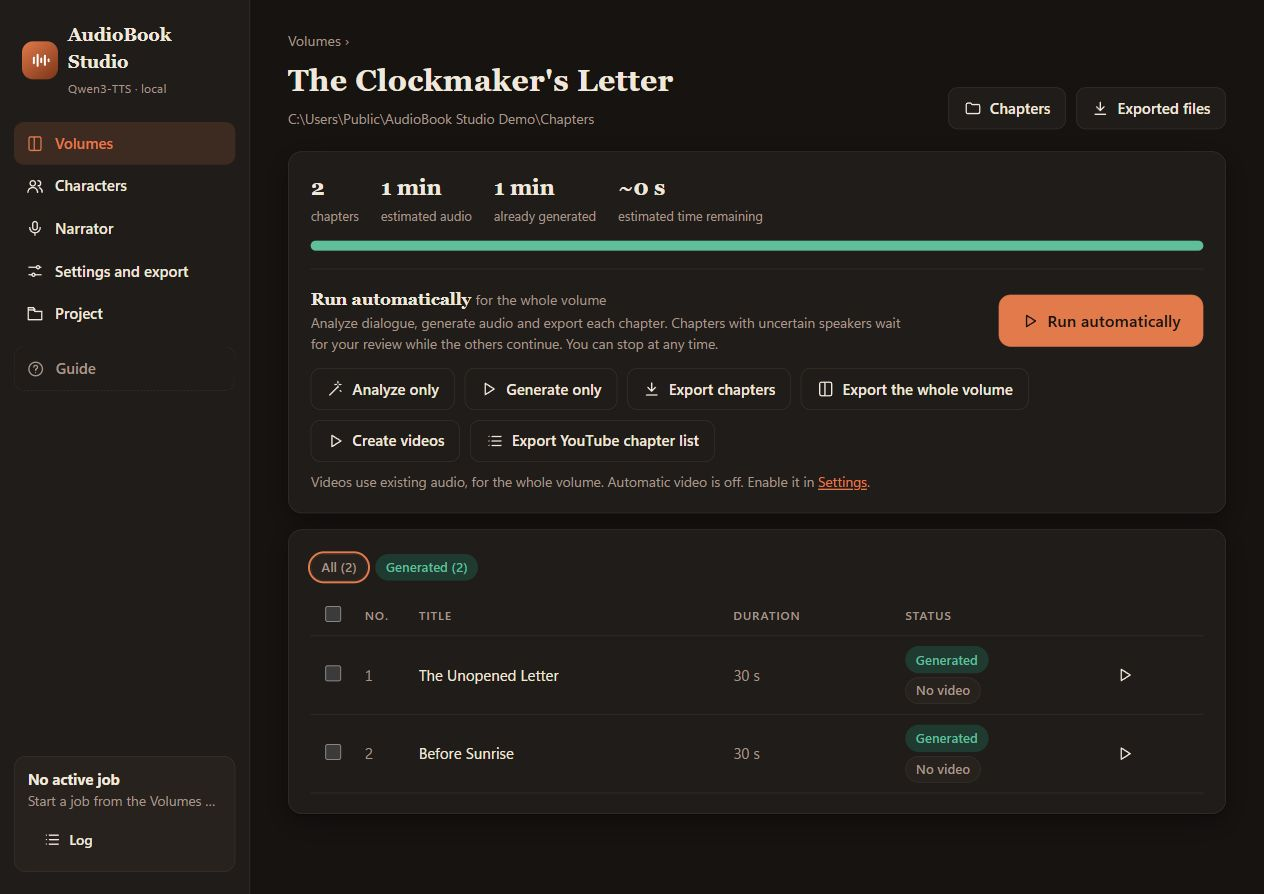
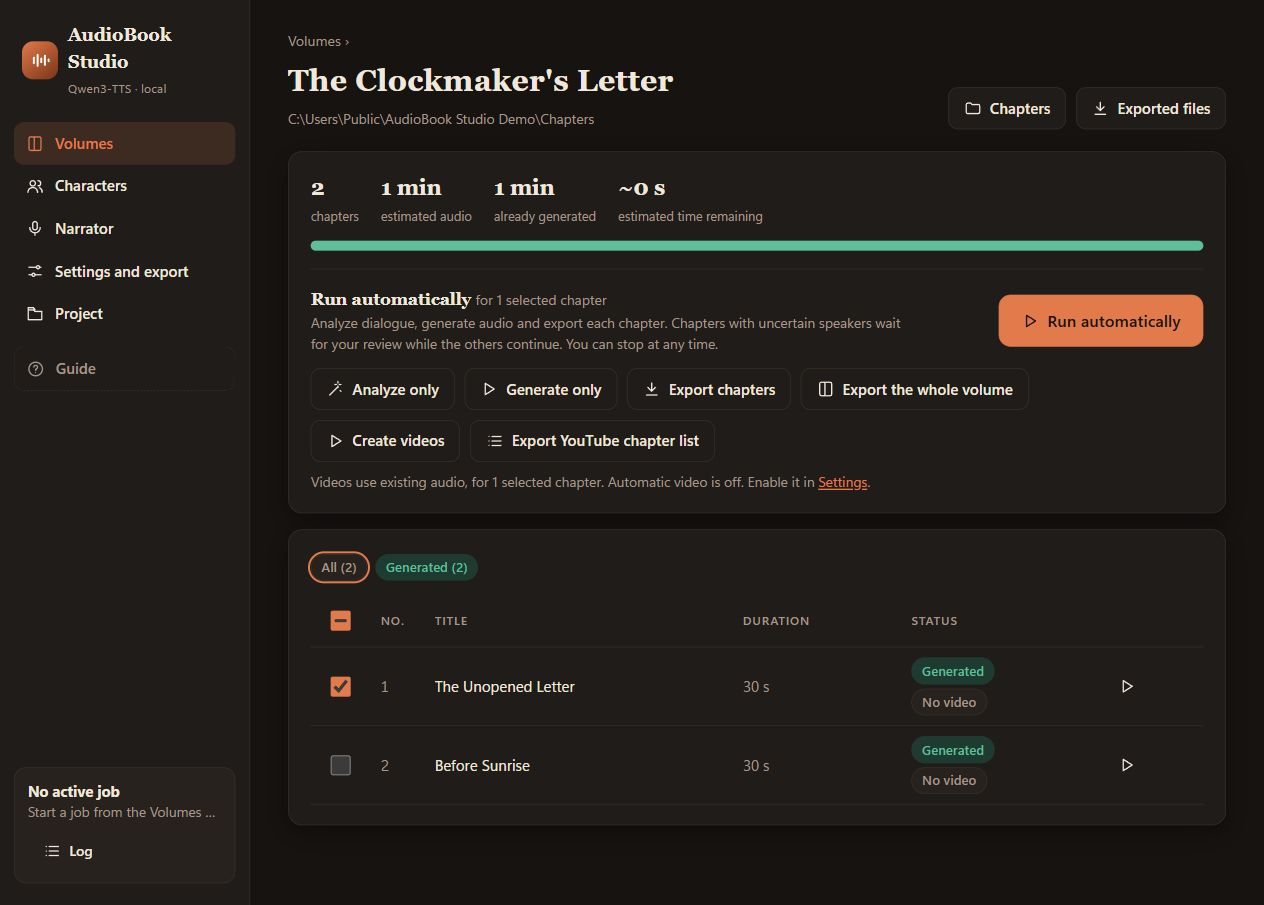
Fix chapter batch selection and enlarge checkbox targets

diff --git a/app/web/app.js b/app/web/app.js
@@ -240,8 +240,9 @@ async function viewVolume(name) {
   const remaining = chapters.filter((c) => !["generated", "exported"].includes(c.state)).reduce((sum, c) => sum + (c.remaining_seconds ?? c.estimated_seconds ?? 0), 0) * data.render_factor;
   selected = new Set([...selected].filter((stem) => chapters.some((c) => c.stem === stem)));
   const visible = chapters.filter((c) => volumeFilter === "all" || c.state === volumeFilter);
+  const visibleSelected = visible.filter((c) => selected.has(c.stem)).length;
   const bar = Object.entries(counts).map(([state, n]) => `<i style="width:${n / chapters.length * 100}%;background:${STATE_COLOR[state]}"></i>`).join("");
-  const target = selected.size ? `for ${selected.size} selected chapters` : "for the whole volume";
+  const target = selected.size ? `for ${selected.size} selected chapter${selected.size === 1 ? "" : "s"}` : "for the whole volume";
   view.innerHTML = `
     <div class="crumbs"><a href="#/">Volumes</a> ›</div>
     <div class="page-head"><div><h1>${esc(name)}</h1><p class="small">${esc(data.volume.source)}</p></div>
@@ -278,9 +279,9 @@ async function viewVolume(name) {
     <div class="card" style="margin-top:16px">
       <div class="filters">${[["all", `All (${chapters.length})`], ...Object.keys(STATE_LABEL).filter((s) => counts[s]).map((s) => [s, `${STATE_LABEL[s]} (${counts[s]})`])]
         .map(([key, label]) => `<span class="chip ${key === "all" ? "" : STATE_CLASS[key]} ${volumeFilter === key ? "on" : ""}" data-filter="${key}">${label}</span>`).join("")}</div>
-      <table class="chapters"><thead><tr><th class="check"><input type="checkbox" id="all"></th><th>No.</th><th>Title</th><th>Duration</th><th>Status</th><th></th></tr></thead>
+      <table class="chapters"><thead><tr><th class="check"><label class="chapter-select"><input type="checkbox" id="all" aria-label="Select all visible chapters" ${visible.length ? "" : "disabled"}></label></th><th>No.</th><th>Title</th><th>Duration</th><th>Status</th><th></th></tr></thead>
       <tbody>${visible.map((c) => `<tr class="clickable" data-stem="${esc(c.stem)}">
-        <td class="check"><input type="checkbox" data-select="${esc(c.stem)}" ${selected.has(c.stem) ? "checked" : ""}></td>
+        <td class="check"><label class="chapter-select"><input type="checkbox" data-select="${esc(c.stem)}" aria-label="Select ${esc(c.title)}" ${selected.has(c.stem) ? "checked" : ""}></label></td>
         <td class="num">${c.number ?? ""}</td>
         <td>${esc(c.title)}${c.error ? `<div class="small" style="color:var(--bad)">${esc(c.error)}</div>` : ""}</td>
         <td class="dur">${c.seconds ? duration(c.seconds) : `~${duration(c.estimated_seconds)}`}</td>
@@ -317,10 +318,18 @@ async function viewVolume(name) {
   $("#open-source").onclick = () => guard(() => api("/api/open", { method: "POST", body: { what: "source", volume: name } }));
   $("#open-export").onclick = () => guard(() => api("/api/open", { method: "POST", body: { what: "export", volume: name } }));
   $$("[data-filter]").forEach((element) => element.onclick = () => { volumeFilter = element.dataset.filter; viewVolume(name); });
+  $("#all").checked = visible.length > 0 && visibleSelected === visible.length;
+  $("#all").indeterminate = visibleSelected > 0 && visibleSelected < visible.length;
   $("#all").onchange = (event) => { visible.forEach((c) => event.target.checked ? selected.add(c.stem) : selected.delete(c.stem)); viewVolume(name); };
+  $$("[data-select]").forEach((box) => box.onchange = () => {
+    box.checked ? selected.add(box.dataset.select) : selected.delete(box.dataset.select); viewVolume(name);
+  });
   $$("tr.clickable").forEach((row) => row.onclick = (event) => {
-    const box = event.target.closest("[data-select]");
-    if (box) { box.checked ? selected.add(box.dataset.select) : selected.delete(box.dataset.select); viewVolume(name); return; }
+    const cell = event.target.closest("td.check");
+    if (cell) {
+      if (!event.target.closest("input, label")) $("[data-select]", cell).click();
+      return;
+    }
     const play = event.target.closest("[data-play]");
     if (play) { const player = $("#volume-player"); player.classList.remove("hidden"); player.src = play.dataset.play; player.play(); return; }
     location.hash = `#/chapter/${encodeURIComponent(name)}/${encodeURIComponent(row.dataset.stem)}`;

diff --git a/app/web/style.css b/app/web/style.css
@@ -209,8 +209,9 @@ table.chapters td { padding: 10px; border-bottom: 1px solid var(--line); vertica
 table.chapters tr.clickable:hover td { background: var(--surface-2); cursor: pointer; }
 table.chapters td.num { color: var(--muted); font-variant-numeric: tabular-nums; width: 54px; }
 table.chapters td.dur { color: var(--muted); font-variant-numeric: tabular-nums; white-space: nowrap; }
-table.chapters td.check, table.chapters th.check { width: 34px; }
-table.chapters input[type=checkbox] { width: 17px; height: 17px; accent-color: var(--accent); }
+table.chapters td.check, table.chapters th.check { width: 44px; padding: 4px 8px; }
+table.chapters .chapter-select { display: grid; place-items: center; min-width: 44px; min-height: 44px; cursor: pointer; }
+table.chapters input[type=checkbox] { width: 20px; height: 20px; margin: 0; accent-color: var(--accent); cursor: pointer; }
 .mini-bar { width: 70px; display: inline-block; vertical-align: middle; margin-left: 6px; }
 
 /* ---- chapter editor ---- */

diff --git a/VERIFICATION.md b/VERIFICATION.md
@@ -26,13 +26,23 @@ To run the source tests and reproduce a Windows build, see [docs/BUILD.md](docs/
 
 ## Installation-local model staging
 
-The current packaged source passes 212 Python tests (138 application + 74 distribution) and 8 Node tests.
+The current packaged source passes 212 Python tests (138 application + 74 distribution) and 12 Node tests.
 Six added installer regressions cover moving verified Qwen files and Gemma blobs from `Local Models`
 into `models`, retaining the same filesystem file identity without copying model data, retry after an
 interrupted transfer, invalid bytes/destination conflicts, junction refusal and preservation of extras.
 An explicitly external model library is copied and left unchanged. Post-move verification failures
 retain the moved file and report its location. Tests use small invented model bytes and fake runtime
 setup/verification; they do not constitute another real-model or clean-Windows installation test.
+
+## Chapter batch selection
+
+The header checkbox reflects all, partial or empty selection after the chapter table redraws.
+Clicking it again clears the visible chapters; hidden selections are preserved when filtering.
+Each checkbox has a 44-by-44 CSS-pixel label, with a 20-pixel checkbox. Clicking anywhere in its
+selection cell selects the chapter without opening it; clicking the title still opens the editor.
+Four Node regressions exercise the actual volume renderer and batch payload. Browser checks on an
+isolated invented two-chapter volume confirmed select/deselect-all, partial selection, label/cell
+clicks and normal chapter navigation. No installed application or private project data was changed.
 
 ## Optional video renderer
 

diff --git a/README.md b/README.md
@@ -392,7 +392,7 @@ Running `app.py` directly for development still opens the normal browser.
 > long generation from the desktop window remain unverified. Browser-crash recovery and busy/queued exit
 > handling were tested with a fake backend, without running models.
 
-The current build passed **212 Python tests and 8 Node tests**, including tests run from the packaged source.
+The current build passed **212 Python tests and 12 Node tests**, including tests run from the packaged source.
 This is an early release with the testing limits above. [VERIFICATION.md](VERIFICATION.md) describes the checks performed
 and their limits. Please review speaker assignments and listen to a sample chapter before running a whole book.
 If you find a problem, reports with your GPU, Windows version and steps to reproduce are welcome in

diff --git a/docs/BUILD.md b/docs/BUILD.md
@@ -12,7 +12,7 @@ python -m venv .venv
 .\.venv\Scripts\python.exe -m unittest discover -s app -q
 .\.venv\Scripts\python.exe -m unittest discover -s tests -q
 node --check app/web/app.js
-node --test tests/test_voice_guide.mjs tests/test_project_ui.mjs
+node --test tests/test_voice_guide.mjs tests/test_project_ui.mjs tests/test_volume_ui.mjs
 ```
 
 Node is only needed for UI source tests, not by the installed application. Native resource tests use the
